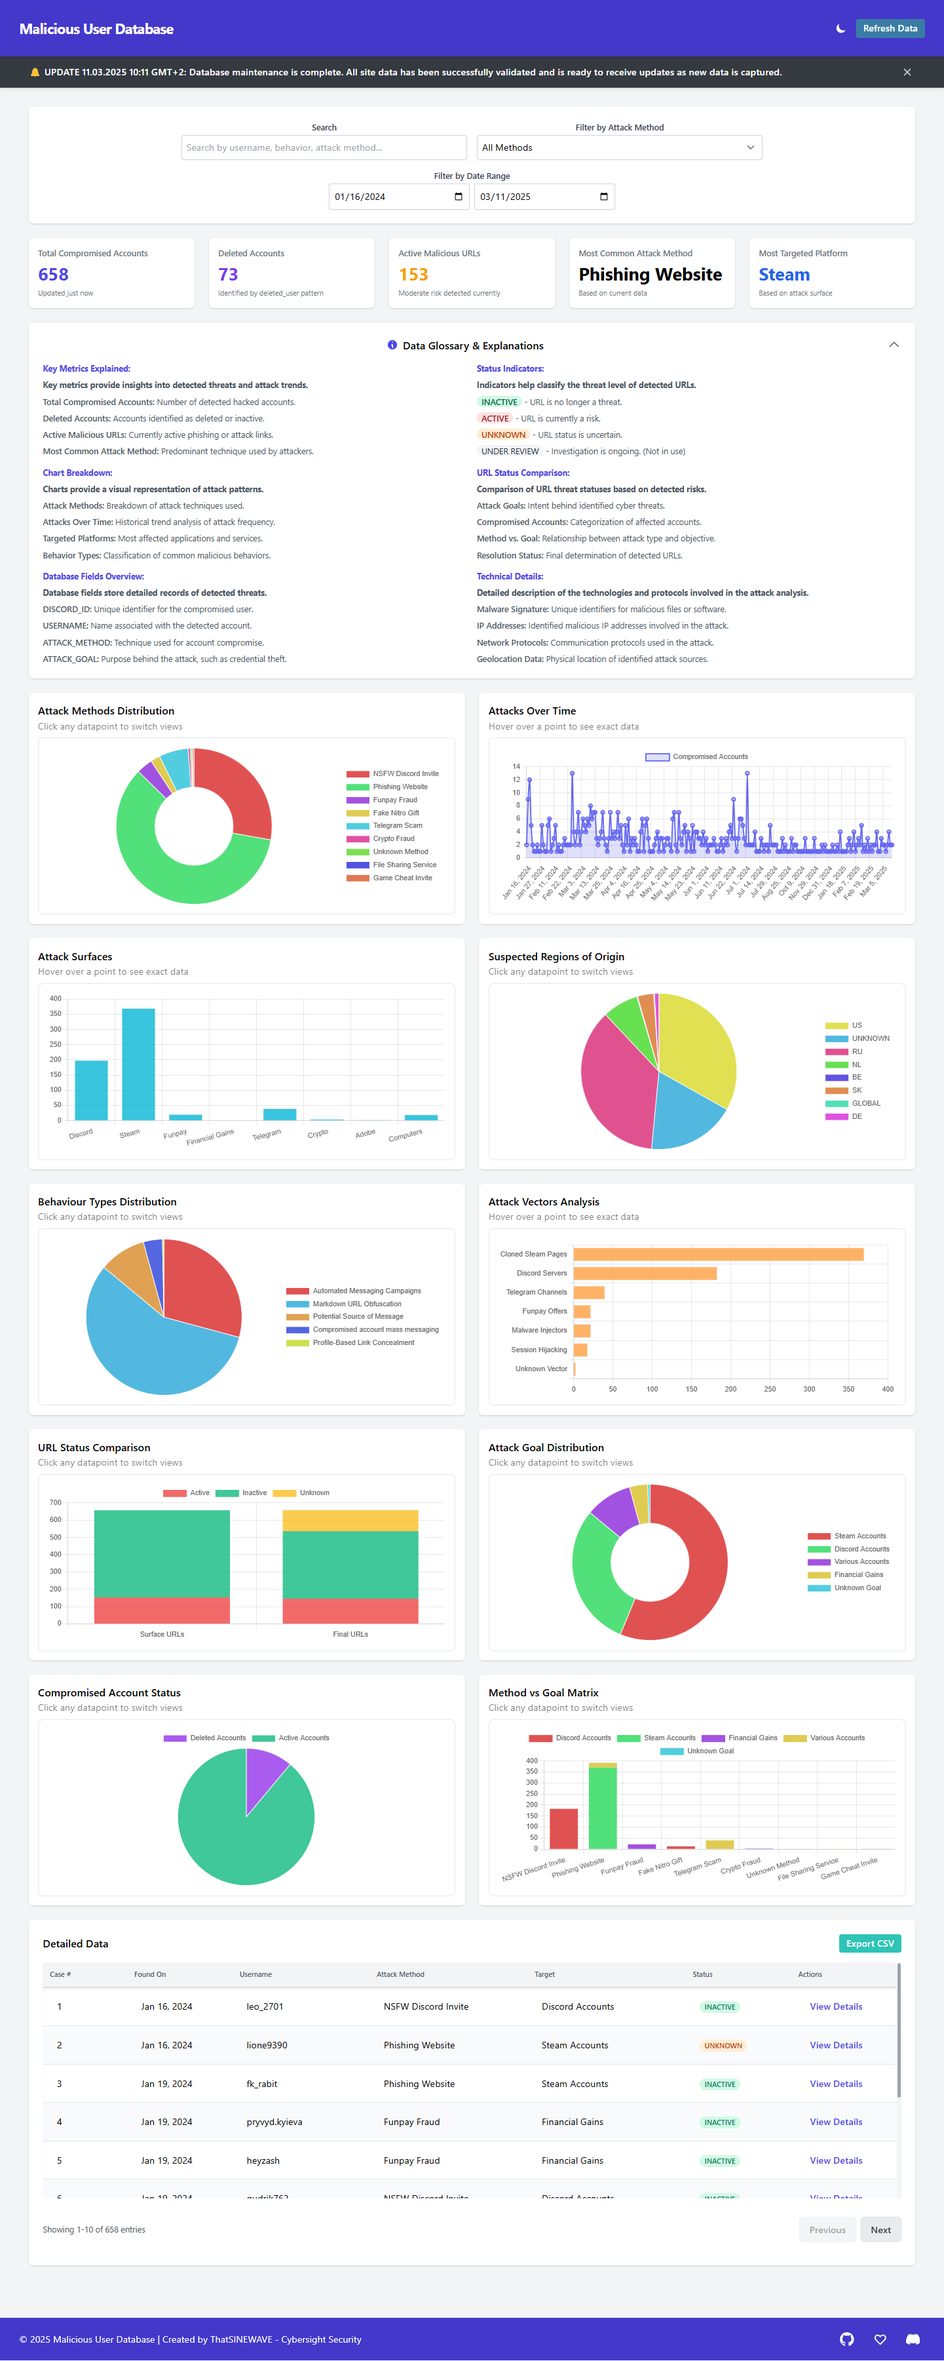
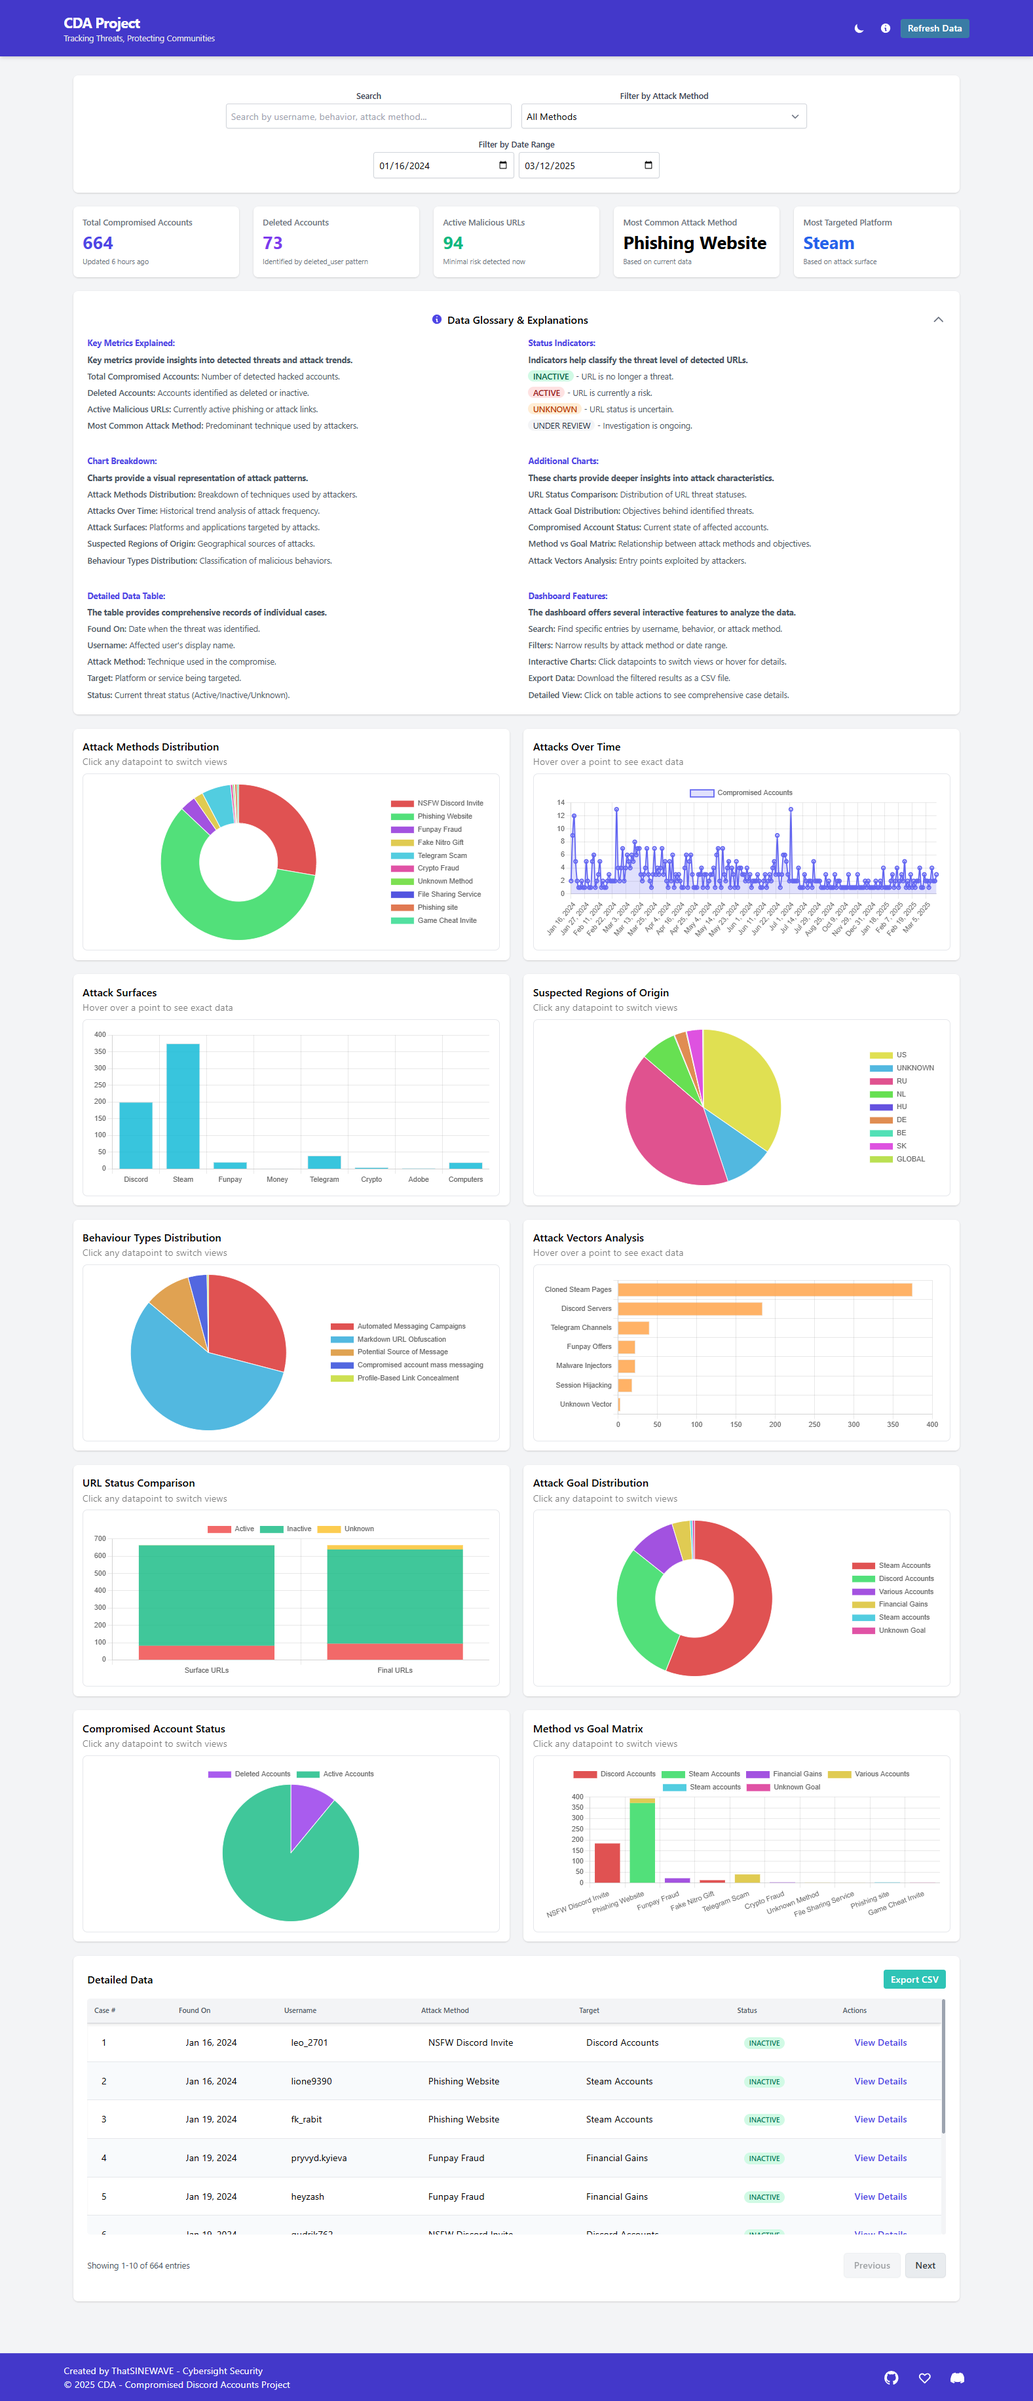
Updated everything to the new name

diff --git a/docs/info.html b/docs/info.html
@@ -3,7 +3,7 @@
   <head>
     <meta charset="UTF-8">
     <meta name="viewport" content="width=device-width, initial-scale=1.0">
-    <title>CDA Dashboard - Info</title>
+    <title>CDA Project - Information</title>
     <link rel="stylesheet" href="styles.css">
     <link rel="stylesheet" href="tailwind.min.css">
     <!-- Favicon for all browsers -->
@@ -31,24 +31,24 @@
     <!-- Defines the color of the browser UI elements -->
     <meta name="theme-color" content="#ffffff">
     <!-- Open Graph Meta Tags (for social media sharing, mainly Facebook) -->
-    <meta property="og:title" content="CDA Dashboard - Info">
+    <meta property="og:title" content="CDA Project - Information">
     <meta property="og:description" content="A comprehensive security dashboard tracking malicious activities with advanced analytics capabilities and unified processing engine">
-    <meta property="og:image" content="https://raw.githubusercontent.com/ThatSINEWAVE/Malicious-URLs-DB/refs/heads/main/docs/site-data/social-share/Malicious-URLs-DB.png">
-    <meta property="og:url" content="https://thatsinewave.github.io/Malicious-URLs-DB">
+    <meta property="og:image" content="https://raw.githubusercontent.com/ThatSINEWAVE/CDA-Project/refs/heads/main/docs/site-data/social-share/CDA-Project.png">
+    <meta property="og:url" content="https://thatsinewave.github.io/CDA-Project">
     <meta property="og:type" content="website">
     <!-- Twitter Card Meta Tags (for better sharing on Twitter) -->
     <meta name="twitter:card" content="summary_large_image">
-    <meta name="twitter:title" content="CDA Dashboard - Info">
+    <meta name="twitter:title" content="CDA Project - Information">
     <meta name="twitter:description" content="A comprehensive security dashboard tracking malicious activities with advanced analytics capabilities and unified processing engine">
-    <meta name="twitter:image" content="https://raw.githubusercontent.com/ThatSINEWAVE/Malicious-URLs-DB/refs/heads/main/docs/site-data/social-share/Malicious-URLs-DB.png">
+    <meta name="twitter:image" content="https://raw.githubusercontent.com/ThatSINEWAVE/CDA-Project/refs/heads/main/docs/site-data/social-share/CDA-Project.png">
   </head>
   <body class="bg-gray-100 min-h-screen">
     <!-- Header -->
     <nav class="bg-indigo-700 text-white p-4 shadow-md">
       <div class="container mx-auto flex justify-between items-center">
         <div>
-          <a href="/Malicious-URLs-DB/index.html" class="block">
-            <h1 class="text-2xl font-bold">CDA Dashboard</h1>
+          <a href="/CDA-Project/index.html" class="block">
+            <h1 class="text-2xl font-bold">CDA Project</h1>
             <p class="text-sm text-gray-200">Tracking Threats, Protecting Communities</p>
           </a>
         </div>
@@ -92,7 +92,7 @@
         <!-- About the Database Section -->
         <div class="mb-8">
           <h3 class="text-2xl font-semibold text-gray-800 mb-4">About the Database</h3>
-          <p class="text-gray-600 mb-4">The Malicious URLs & Accounts DB is an advanced security dashboard that tracks, categorizes, and analyzes malicious activities, including compromised accounts, phishing campaigns, and suspicious URLs. The platform provides a real-time threat monitoring system with advanced analytics and a unified processing engine. </p>
+          <p class="text-gray-600 mb-4">The <b>Compromised Discord Accounts Project</b> is an advanced security dashboard that tracks, categorizes, and analyzes malicious activities, including compromised accounts, phishing campaigns, and suspicious URLs. The platform provides a real-time threat monitoring system with advanced analytics and a unified processing engine. </p>
           <p class="text-gray-600 mb-4">This database is continuously updated with new threat intelligence, ensuring users have access to the most current information on emerging threats and attack vectors. The platform employs advanced analytics to identify patterns and correlations between different malicious activities, providing valuable insights for security professionals, researchers, and organizations looking to enhance their defensive capabilities.</p>
           <div class="grid grid-cols-1 md:grid-cols-2 gap-6">
             <div class="bg-gray-50 p-4 rounded-lg">
@@ -107,7 +107,7 @@
         </div>
         <div class="mb-8">
           <h3 class="text-2xl font-semibold text-gray-800 mb-4">Project Timeline</h3>
-          <p class="text-gray-600 mb-4">The development of the Malicious URLs & Accounts DB has evolved significantly over the years. Here's a brief timeline of its journey:</p>
+          <p class="text-gray-600 mb-4">The development of the <b>Compromised Discord Accounts Project</b> has evolved significantly over the years. Here's a brief timeline of its journey:</p>
           <div class="bg-gray-50 p-4 rounded-lg mb-6">
             <h4 class="text-lg font-semibold text-indigo-600 mb-2">The Beginning</h4>
             <p class="text-gray-600">This project began in January 2014 when I first decided to explore the use of compromised Discord accounts and analyze how their campaigns evolved over time.</p>
@@ -116,7 +116,7 @@
           <div class="bg-gray-50 p-4 rounded-lg mb-6">
             <h4 class="text-lg font-semibold text-indigo-600 mb-2">First Iteration</h4>
             <p class="text-gray-600">By March 2024, I released the first iteration of the repository, where I experimented with various formats and methods to sort the data regarding the behavior of these accounts. A month later, in April 2024, I launched the first, very rudimentary web application to display the data.</p>
-            <p class="text-gray-600">At the time, the implementation was far from ideal—looking back, it was a poor design and didn't serve much purpose other than displaying an overwhelming list of information. Seriously, I don't know why I haven't written anything better at that time, you can <a href="https://raw.githubusercontent.com/ThatSINEWAVE/Malicious-URLs-DB/refs/heads/main/.github/SCREENSHOTS/Old-UI.png" class="text-indigo-600" target="_blank">click here</a> if you want to see how bad it was. </p>
+            <p class="text-gray-600">At the time, the implementation was far from ideal—looking back, it was a poor design and didn't serve much purpose other than displaying an overwhelming list of information. Seriously, I don't know why I haven't written anything better at that time, you can <a href="https://raw.githubusercontent.com/ThatSINEWAVE/CDA-Project/refs/heads/main/.github/SCREENSHOTS/Old-UI.png" class="text-indigo-600" target="_blank">click here</a> if you want to see how bad it was. </p>
           </div>
           <div class="bg-gray-50 p-4 rounded-lg mb-6">
             <h4 class="text-lg font-semibold text-indigo-600 mb-2">Rework & Overhaul</h4>
@@ -127,7 +127,7 @@
         <!-- About Me Section -->
         <div class="mb-8">
           <h3 class="text-2xl font-semibold text-gray-800 mb-4">About Me</h3>
-          <p class="text-gray-600 mb-4">I'm known as ThatSINEWAVE or just SINEWAVE_, an entrepreneur with a passion for cybersecurity and coding. When I'm not running my various local businesses (online shops, real estate agency, and more), I'm diving into projects like this one, sparked by my cybersecurity company experiences.</p>
+          <p class="text-gray-600 mb-4">I'm known as <b>ThatSINEWAVE</b> or just <b>SINEWAVE_</b>, an entrepreneur with a passion for cybersecurity and coding. When I'm not running my various local businesses (online shops, real estate agency, and more), I'm diving into projects like this one, sparked by my cybersecurity company experiences.</p>
           <p class="text-gray-600 mb-4">As a self-taught programmer, I enjoy sitting down at my computer during free time to create random projects, tools, or really anything that catches my interest. If something seems useful, whether for myself or others, I'll probably build it just for the fun of it.</p>
           <div class="grid grid-cols-1 md:grid-cols-2 gap-6">
             <div class="bg-gray-50 p-4 rounded-lg">
@@ -170,7 +170,7 @@
         <!-- How to Contribute Section -->
         <div class="mb-8">
           <h3 class="text-2xl font-semibold text-gray-800 mb-4">How Can I Contribute?</h3>
-          <p class="text-gray-600 mb-4">Server owners and staff can play a vital role in enhancing this project by contributing their automod logs that help identify and block malicious messages <a href="https://raw.githubusercontent.com/ThatSINEWAVE/Malicious-URLs-DB/refs/heads/main/.github/SCREENSHOTS/Old-UI.png" class="text-indigo-600" target="_blank">like these</a>. These logs, which contain data on URLs and accounts involved in suspicious activities, will be parsed, validated, and added to the database to further strengthen the security measures. </p>
+          <p class="text-gray-600 mb-4">Server owners and staff can play a vital role in enhancing this project by contributing their automod logs that help identify and block malicious messages <a href="https://raw.githubusercontent.com/ThatSINEWAVE/CDA-Project/refs/heads/main/.github/SCREENSHOTS/Old-UI.png" class="text-indigo-600" target="_blank">like these</a>. These logs, which contain data on URLs and accounts involved in suspicious activities, will be parsed, validated, and added to the database to further strengthen the security measures. </p>
           <p class="text-gray-600 mb-4">The contributions can be kept anonymous, or if the server owners prefer, they can be credited. Importantly, while the data from the logs will be included in the database, the specific source (the server in which the malicious activity was detected) will not be disclosed on the public-facing site. However, it may be stored in the database for internal purposes.</p>
           <p class="text-gray-600 mb-4">I haven't figured out a way to efficiently accept external automod logs yet, but if you're interested, feel free to contact me on Discord below, and we can discuss further.</p>
         </div>
@@ -188,7 +188,7 @@
           <h3 class="text-2xl font-semibold text-gray-800 mb-4">Additional Resources</h3>
           <p class="text-gray-600 mb-4">If you're interested in diving deeper into the project or want to explore more of what I do, be sure to check out my GitHub repository. It's regularly updated with new information, tools, and resources related to my work. From bug fixes to new features, you'll find everything you need right there.</p>
           <div class="flex justify-center space-x-8 mt-4">
-            <a href="https://github.com/ThatSINEWAVE/Malicious-URLs-DB" class="inline-flex items-center text-indigo-600 hover:text-indigo-800">
+            <a href="https://github.com/ThatSINEWAVE/CDA-Project" class="inline-flex items-center text-indigo-600 hover:text-indigo-800">
               <svg xmlns="http://www.w3.org/2000/svg" class="h-6 w-6 mr-2" fill="currentColor" viewBox="0 0 24 24">
                 <path d="M12 0c-6.626 0-12 5.373-12 12 0 5.302 3.438 9.8 8.207 11.387.599.111.793-.261.793-.577v-2.234c-3.338.726-4.033-1.416-4.033-1.416-.546-1.387-1.333-1.756-1.333-1.756-1.089-.745.083-.729.083-.729 1.205.084 1.839 1.237 1.839 1.237 1.07 1.834 2.807 1.304 3.492.997.107-.775.418-1.305.762-1.604-2.665-.305-5.467-1.334-5.467-5.931 0-1.311.469-2.381 1.236-3.221-.124-.303-.535-1.524.117-3.176 0 0 1.008-.322 3.301 1.23.957-.266 1.983-.399 3.003-.404 1.02.005 2.047.138 3.006.404 2.291-1.552 3.297-1.23 3.297-1.23.653 1.653.242 2.874.118 3.176.77.84 1.235 1.911 1.235 3.221 0 4.609-2.807 5.624-5.479 5.921.43.372.823 1.102.823 2.222v3.293c0 .319.192.694.801.576 4.765-1.589 8.199-6.086 8.199-11.386 0-6.627-5.373-12-12-12z" />
               </svg> Project Repository </a>
@@ -201,12 +201,12 @@
         <!-- Support & Donations Section -->
         <div class="mt-8">
           <h3 class="text-2xl font-semibold text-gray-800 mb-4">Support the Project</h3>
-          <p class="text-gray-600 mb-4">As mentioned earlier in the <b>About Me</b> section, monetary gains are not the goal of this project. I'm an entrepreneur with several local businesses, so I don't rely on donations for income and I won't ask for money for any project like this one ever - it's also why this Ko-fi link is so far down the page. However, if you'd still like to show your support, feel free to do so through Ko-fi. While it won't impact the project directly, your gesture is always appreciated! </p>
+          <p class="text-gray-600 mb-4">As mentioned earlier in the <b>About Me</b> section, monetary gains are not the goal of this project. I'm an entrepreneur with several local businesses, so I don't rely on donations for income and I won't ask for money for any project like this one ever - it's also why this Ko-Fi link is so far down the page. However, if you'd still like to show your support, feel free to do so through Ko-Fi. While it won't impact the project directly, your gesture is always appreciated! </p>
           <div class="flex justify-center mt-4">
             <a href="https://ko-fi.com/thatsinewave" class="inline-flex items-center text-indigo-600 hover:text-indigo-800">
               <svg xmlns="http://www.w3.org/2000/svg" class="h-6 w-6 mr-2" fill="currentColor" viewBox="0 0 24 24">
                 <path d="M19.5 4h-15C3.672 4 3 4.672 3 5.5v13c0 .828.672 1.5 1.5 1.5h15c.828 0 1.5-.672 1.5-1.5v-13c0-.828-.672-1.5-1.5-1.5zM18 16.5c0 .276-.224.5-.5.5h-12c-.276 0-.5-.224-.5-.5v-9c0-.276.224-.5.5-.5h12c.276 0 .5.224.5.5v9zM9 10h6v2H9v-2z" />
-              </svg> Ko-fi Donations </a>
+              </svg> Ko-Fi Donations </a>
           </div>
         </div>
       </div>
@@ -216,10 +216,10 @@
       <div class="container mx-auto flex flex-col md:flex-row justify-between items-center">
         <div class="mb-4 md:mb-0">
           <p>Created by ThatSINEWAVE - Cybersight Security</p>
-          <p>© 2025 CDA - Compromised Discord Accounts Dashboard</p>
+          <p>© 2025 CDA - Compromised Discord Accounts Project</p>
         </div>
         <div class="flex space-x-4">
-          <a href="https://github.com/ThatSINEWAVE/Malicious-URLs-DB" class="hover:text-indigo-200 transition-colors" title="GitHub Repository">
+          <a href="https://github.com/ThatSINEWAVE/CDA-Project" class="hover:text-indigo-200 transition-colors" title="GitHub Repository">
             <svg xmlns="http://www.w3.org/2000/svg" class="h-6 w-6" fill="currentColor" viewBox="0 0 24 24">
               <path d="M12 0c-6.626 0-12 5.373-12 12 0 5.302 3.438 9.8 8.207 11.387.599.111.793-.261.793-.577v-2.234c-3.338.726-4.033-1.416-4.033-1.416-.546-1.387-1.333-1.756-1.333-1.756-1.089-.745.083-.729.083-.729 1.205.084 1.839 1.237 1.839 1.237 1.07 1.834 2.807 1.304 3.492.997.107-.775.418-1.305.762-1.604-2.665-.305-5.467-1.334-5.467-5.931 0-1.311.469-2.381 1.236-3.221-.124-.303-.535-1.524.117-3.176 0 0 1.008-.322 3.301 1.23.957-.266 1.983-.399 3.003-.404 1.02.005 2.047.138 3.006.404 2.291-1.552 3.297-1.23 3.297-1.23.653 1.653.242 2.874.118 3.176.77.84 1.235 1.911 1.235 3.221 0 4.609-2.807 5.624-5.479 5.921.43.372.823 1.102.823 2.222v3.293c0 .319.192.694.801.576 4.765-1.589 8.199-6.086 8.199-11.386 0-6.627-5.373-12-12-12z" />
             </svg>

diff --git a/docs/index.html b/docs/index.html
@@ -3,7 +3,7 @@
   <head>
     <meta charset="UTF-8">
     <meta name="viewport" content="width=device-width, initial-scale=1.0">
-    <title>CDA Dashboard - Data View</title>
+    <title>CDA Project - Dashboard</title>
     <link rel="stylesheet" href="styles.css">
     <link rel="stylesheet" href="tailwind.min.css">
     <!-- Favicon for all browsers -->
@@ -31,24 +31,24 @@
     <!-- Defines the color of the browser UI elements -->
     <meta name="theme-color" content="#ffffff">
     <!-- Open Graph Meta Tags (for social media sharing, mainly Facebook) -->
-    <meta property="og:title" content="CDA Dashboard - Data View">
-    <meta property="og:description" content="This repository serves as a curated JSON file containing lists of websites associated with malicious activities. The list is compiled based on personal findings of the repository owner and are intended to help identify and mitigate threats posed by these sites.">
-    <meta property="og:image" content="https://raw.githubusercontent.com/ThatSINEWAVE/Malicious-URLs-DB/refs/heads/main/docs/site-data/social-share/Malicious-URLs-DB.png">
-    <meta property="og:url" content="https://thatsinewave.github.io/Malicious-URLs-DB">
+    <meta property="og:title" content="CDA Project - Dashboard">
+    <meta property="og:description" content="A comprehensive security dashboard tracking malicious activities with advanced analytics capabilities and unified processing engine.">
+    <meta property="og:image" content="https://raw.githubusercontent.com/ThatSINEWAVE/CDA-Project/refs/heads/main/docs/site-data/social-share/CDA-Project.png">
+    <meta property="og:url" content="https://thatsinewave.github.io/CDA-Project">
     <meta property="og:type" content="website">
     <!-- Twitter Card Meta Tags (for better sharing on Twitter) -->
     <meta name="twitter:card" content="summary_large_image">
-    <meta name="twitter:title" content="CDA Dashboard - Data View">
-    <meta name="twitter:description" content="This repository serves as a curated JSON file containing lists of websites associated with malicious activities. The list is compiled based on personal findings of the repository owner and are intended to help identify and mitigate threats posed by these sites.">
-    <meta name="twitter:image" content="https://raw.githubusercontent.com/ThatSINEWAVE/Malicious-URLs-DB/refs/heads/main/docs/site-data/social-share/Malicious-URLs-DB.png">
+    <meta name="twitter:title" content="CDA Project - Dashboard">
+    <meta name="twitter:description" content="A comprehensive security dashboard tracking malicious activities with advanced analytics capabilities and unified processing engine.">
+    <meta name="twitter:image" content="https://raw.githubusercontent.com/ThatSINEWAVE/CDA-Project/refs/heads/main/docs/site-data/social-share/CDA-Project.png">
   </head>
   <body class="bg-gray-100 min-h-screen">
     <!-- Header -->
     <nav class="bg-indigo-700 text-white p-4 shadow-md">
       <div class="container mx-auto flex justify-between items-center">
         <div>
-          <a href="/Malicious-URLs-DB/index.html" class="block">
-            <h1 class="text-2xl font-bold">CDA Dashboard</h1>
+          <a href="/CDA-Project/index.html" class="block">
+            <h1 class="text-2xl font-bold">CDA Project</h1>
             <p class="text-sm text-gray-200">Tracking Threats, Protecting Communities</p>
           </a>
         </div>
@@ -469,10 +469,10 @@
       <div class="container mx-auto flex flex-col md:flex-row justify-between items-center">
         <div class="mb-4 md:mb-0">
           <p>Created by ThatSINEWAVE - Cybersight Security</p>
-          <p>© 2025 CDA - Compromised Discord Accounts Dashboard</p>
+          <p>© 2025 CDA - Compromised Discord Accounts Project</p>
         </div>
         <div class="flex space-x-4">
-          <a href="https://github.com/ThatSINEWAVE/Malicious-URLs-DB" class="hover:text-indigo-200 transition-colors" title="GitHub Repository">
+          <a href="https://github.com/ThatSINEWAVE/CDA-Project" class="hover:text-indigo-200 transition-colors" title="GitHub Repository">
             <svg xmlns="http://www.w3.org/2000/svg" class="h-6 w-6" fill="currentColor" viewBox="0 0 24 24">
               <path d="M12 0c-6.626 0-12 5.373-12 12 0 5.302 3.438 9.8 8.207 11.387.599.111.793-.261.793-.577v-2.234c-3.338.726-4.033-1.416-4.033-1.416-.546-1.387-1.333-1.756-1.333-1.756-1.089-.745.083-.729.083-.729 1.205.084 1.839 1.237 1.839 1.237 1.07 1.834 2.807 1.304 3.492.997.107-.775.418-1.305.762-1.604-2.665-.305-5.467-1.334-5.467-5.931 0-1.311.469-2.381 1.236-3.221-.124-.303-.535-1.524.117-3.176 0 0 1.008-.322 3.301 1.23.957-.266 1.983-.399 3.003-.404 1.02.005 2.047.138 3.006.404 2.291-1.552 3.297-1.23 3.297-1.23.653 1.653.242 2.874.118 3.176.77.84 1.235 1.911 1.235 3.221 0 4.609-2.807 5.624-5.479 5.921.43.372.823 1.102.823 2.222v3.293c0 .319.192.694.801.576 4.765-1.589 8.199-6.086 8.199-11.386 0-6.627-5.373-12-12-12z" />
             </svg>
